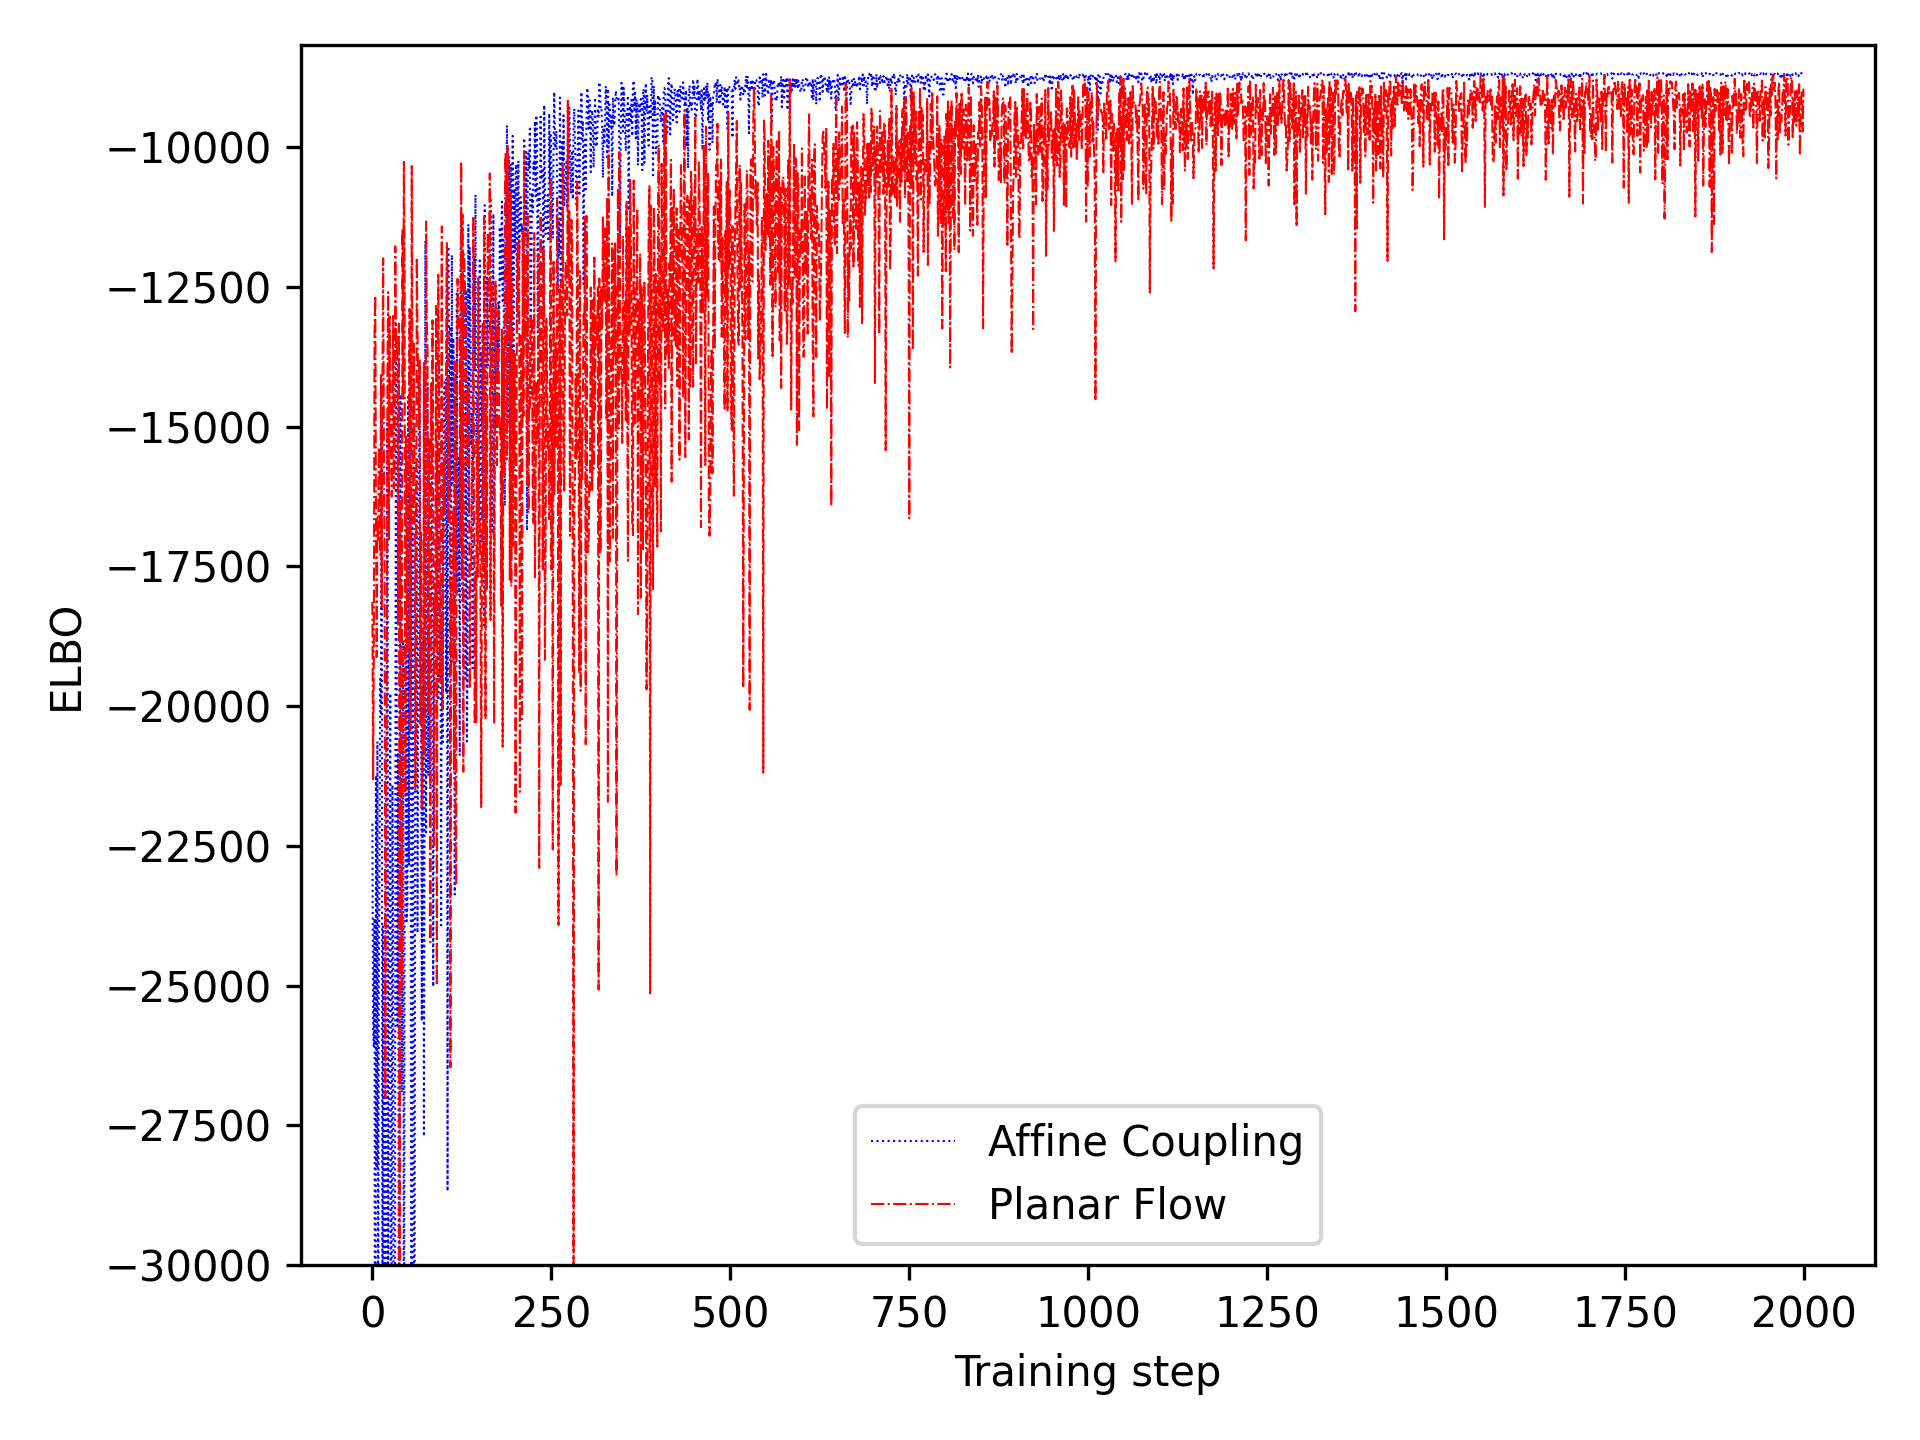
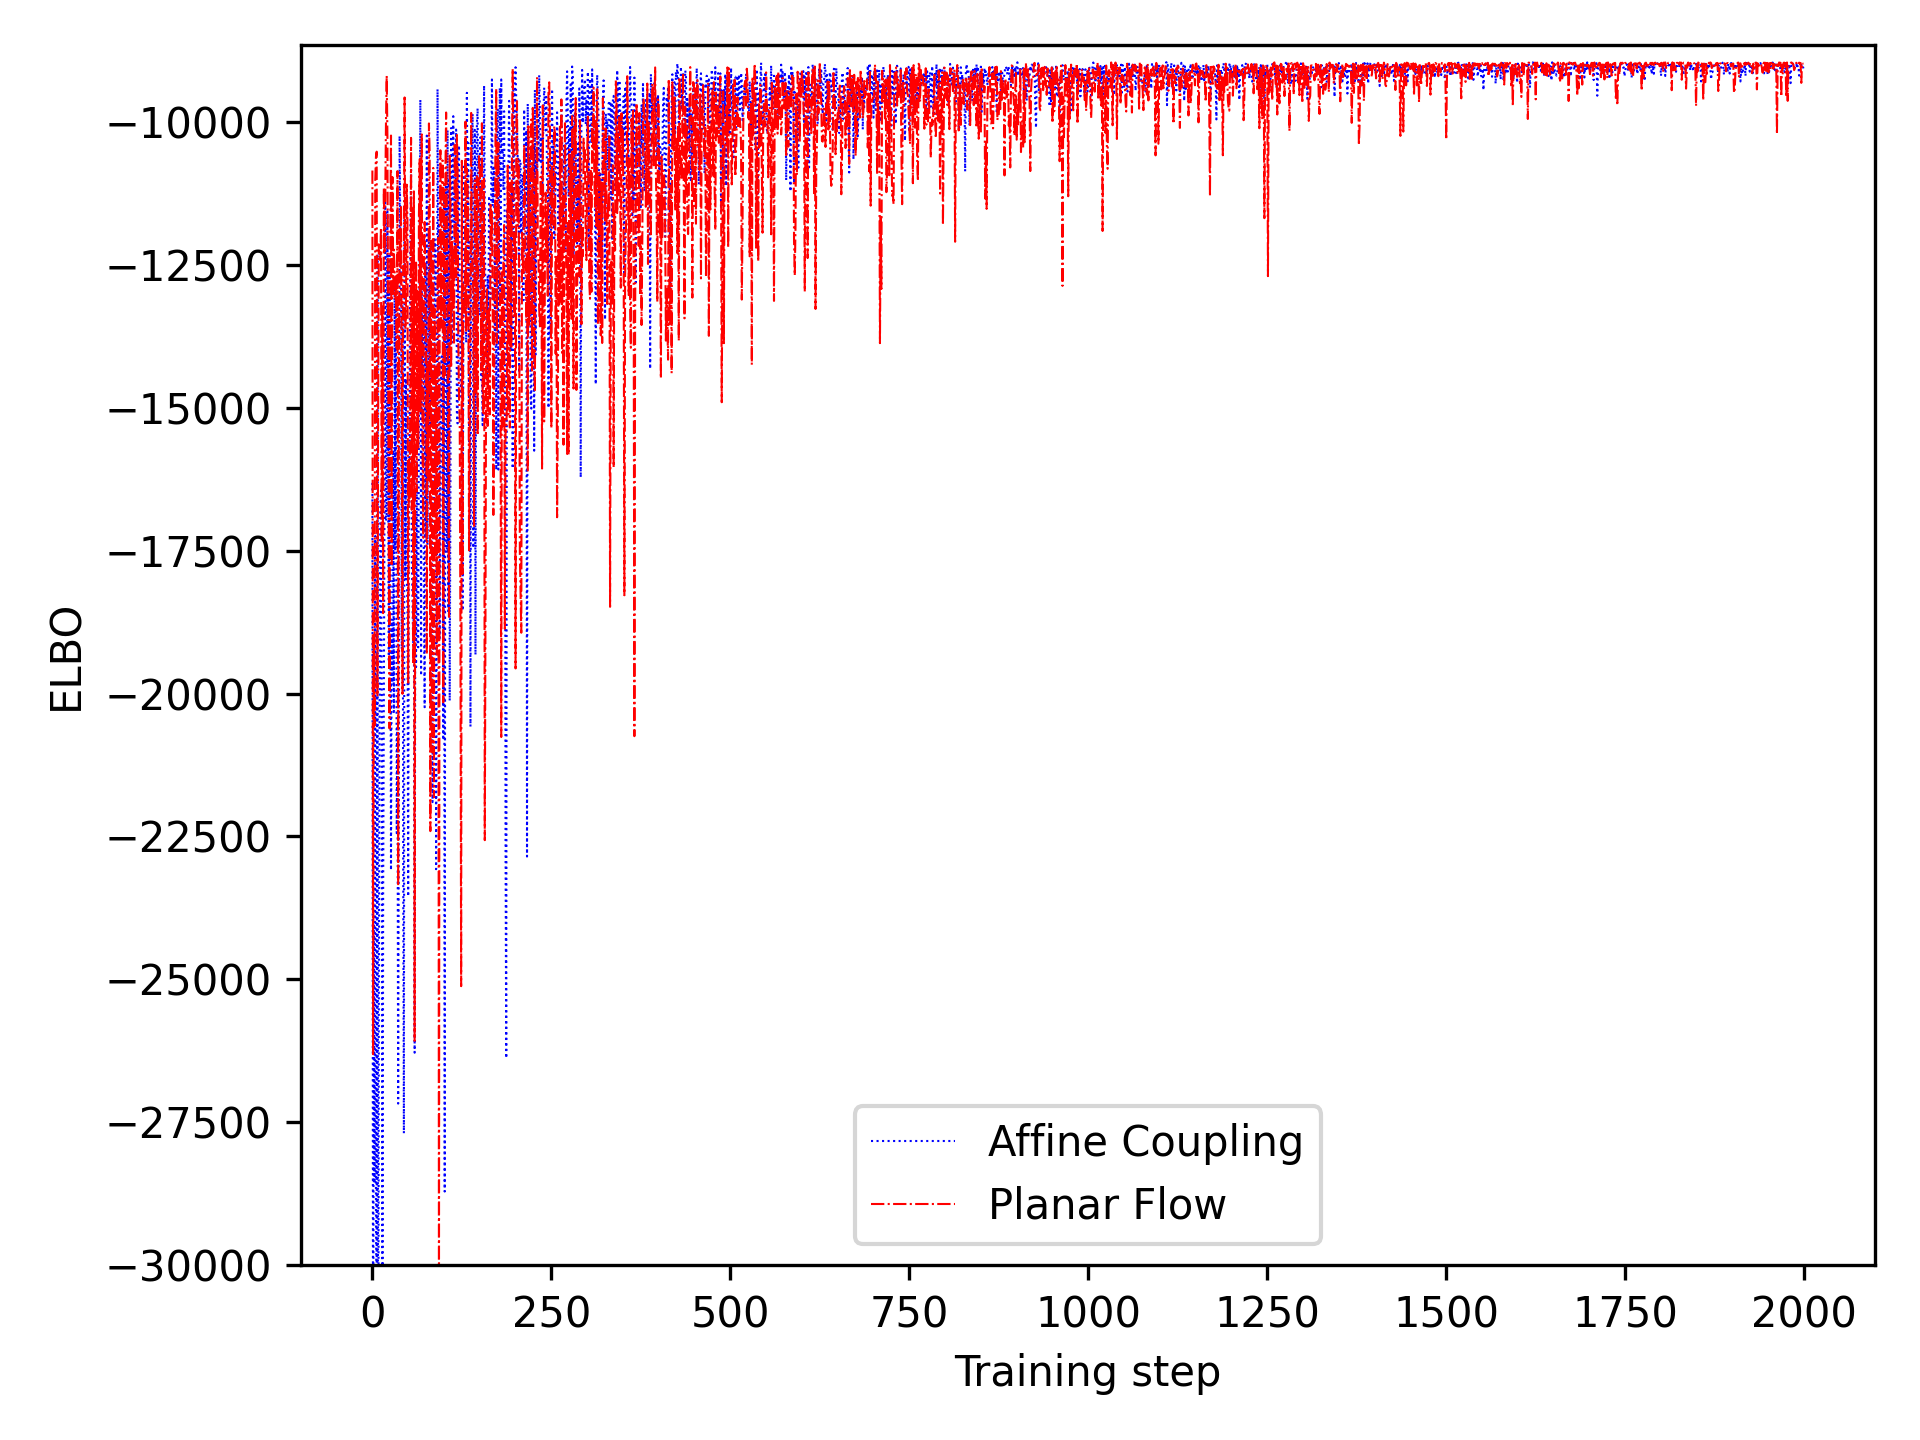
refactored utility construction

diff --git a/src/nf_transport/choice_models/run_model_comparison.py b/src/nf_transport/choice_models/run_model_comparison.py
@@ -23,12 +23,25 @@ from nf_transport.choice_models.utility import ChoiceUtility
 
 
 def likelihood(param_slices, data: MultinomialChoiceData):
+    feature_mapping = data.feature_mapping
     utilities = []
     availabilities = []
-    for dataset, (name, beta) in zip(data.alternatives, param_slices.items()):
-        V = ChoiceUtility(dataset.features, beta, dataset.has_asc)
+
+    asc_names = ["asc_train", None, "asc_car"]
+
+    for i, dataset in enumerate(data.alternatives):
+        V = ChoiceUtility(
+            features=dataset.features, 
+            feature_names=dataset.feature_names, 
+            param_slices=param_slices,
+            feature_mapping=feature_mapping,
+            asc_name=asc_names[i]
+        )
+
         utilities.append(V.value())
         availabilities.append(dataset.availability.all(dim=-1))
+
+
     logits = torch.stack(utilities, dim=-1)  # [Base_samples, N, J]
     avail = torch.stack(availabilities, dim=-1)  # [N, J]
     logits = logits.masked_fill(~avail, float("-inf"))
@@ -65,26 +78,38 @@ def swissmetro_likelihood(base_samples: int = 1):
         scale=True,
     )
 
-    beta_train = ChoiceParameter(dim=sm_train.features.size(1) + 1, name="beta_train")
-    beta_train.set_prior(
-        Normal(torch.zeros(beta_train.dim), torch.ones(beta_train.dim))
-    )
-    beta_car = ChoiceParameter(dim=sm_car.features.size(1) + 1, name="beta_car")
-    beta_car.set_prior(Normal(torch.zeros(beta_car.dim), torch.ones(beta_car.dim)))
-    beta_sm = ChoiceParameter(dim=sm_sm.features.size(1), name="beta_sm")
-    beta_sm.set_prior(Normal(torch.zeros(beta_sm.dim), torch.ones(beta_sm.dim)))
+    # define params
+    asc_train = ChoiceParameter(dim=1, name="asc_train")
+    asc_car = ChoiceParameter(dim=1, name="asc_car")
+    b_time = ChoiceParameter(dim=1, name="b_time")
+    b_cost = ChoiceParameter(dim=1, name="b_cost")
+
+    for b in [b_time, b_cost]:
+        b.set_prior(Normal(torch.tensor([-1.5]), torch.tensor([1.0])))
+
+    param_list = [asc_train, asc_car, b_time, b_cost]
+
+    # map params to predictors
+    feature_mapping = {
+        "TRAIN_TT": "b_time",
+        "CAR_TT": "b_time",
+        "SM_TT": "b_time",
+        "TRAIN_CO": "b_cost",
+        "SM_CO": "b_cost",
+        "CAR_CO": "b_cost",
+    }
 
     log_joint = ChoiceModelLogJoint(
         data=MultinomialChoiceData(
             alternatives=[sm_train, sm_sm, sm_car], 
-            choices=sm_train.choices
+            choices=sm_train.choices,
+            feature_mapping=feature_mapping
         ),
-        params=[beta_train, beta_sm, beta_car],
+        params=param_list,
         likelihood_fn=likelihood,
         base_samples=base_samples
     )
 
-    param_list = [beta_train, beta_sm, beta_car]
 
     return log_joint, param_list
 
@@ -153,7 +178,7 @@ def swissmetro():
         )
 
     plt.plot(np.arange(n_steps), elbos["realNVP"], "b:", np.arange(n_steps), elbos["planar"], "r-.", lw=0.5)
-    plt.ylim((-30000, max(elbos["realNVP"]) + 500))
+    plt.ylim((-30000, max(elbos["realNVP"]) + 300))
     plt.ylabel("ELBO")
     plt.xlabel("Training step")
     plt.legend(("Affine Coupling", "Planar Flow"), loc="lower center")

diff --git a/src/nf_transport/choice_models/utility.py b/src/nf_transport/choice_models/utility.py
@@ -1,21 +1,36 @@
 import torch
-from torch import Tensor, tensor
+from torch import Tensor
 
 
 class ChoiceUtility:
     v: Tensor
 
-    def __init__(self, predictors: Tensor, params: Tensor, has_asc: bool = True):
-        """
-        Predictors: design matrix augmented with 1s for the ASC
-        Params: vector of ChoiceParameters, including the ASC
-        """
-        if has_asc:
-            predictors = torch.cat(
-                (torch.ones(predictors.size(0), 1), predictors), dim=1
-            )
+    def __init__(
+            self, 
+            features: Tensor, 
+            feature_names: list[str],
+            param_slices: dict[str, Tensor], 
+            feature_mapping: dict[str, str],
+            asc_name: str
+    ):
 
-        self.v = torch.matmul(params, predictors.T)
+        batch_size = next(iter(param_slices.values())).size(0)
+        v = torch.zeros(batch_size, features.size(0))
+
+        
+        # add ASC
+        if asc_name and asc_name in param_slices:
+            v += param_slices[asc_name]
+        
+        # add predictors
+        for i, feat in enumerate(feature_names):
+            if feat in feature_mapping:
+                param_name = feature_mapping[feat]
+                beta = param_slices[param_name]
+                x = features[:, i].unsqueeze(0)
+                v += beta * x
+
+        self.v = v
 
     def value(self):
         return self.v

diff --git a/src/nf_transport/choice_models/posterior_viz.py b/src/nf_transport/choice_models/posterior_viz.py
@@ -1,8 +1,7 @@
 import arviz as az
 import arviz_plots as azp
 import numpy as np
-
-# from arviz_plots import azp
+import matplotlib.pyplot as plt
 
 
 def plot_params():
@@ -11,5 +10,23 @@ def plot_params():
     forest = azp.plot_forest(idata)
     forest.savefig("figures/sm_forest.png")
 
+def compare_params():
+    post_planar = np.load("estimates/sm_posterior_planar.npz")
+    post_realNVP = np.load("estimates/sm_posterior_realNVP.npz")
 
-plot_params()
+    idata_planar = az.from_dict(posterior=dict(post_planar))
+    idata_realNVP = az.from_dict(posterior=dict(post_realNVP))
+
+    forest = azp.plot_forest(
+
+        {"Planar": idata_planar, "realNVP": idata_realNVP},
+    )
+
+    forest = azp.add_lines(
+        forest,
+        values=0
+    )
+    plt.legend(["Planar", "realNVP"])
+    plt.savefig("figures/sm_forest_comp.png", dpi=300)
+
+compare_params()

diff --git a/src/nf_transport/choice_models/database_process.py b/src/nf_transport/choice_models/database_process.py
@@ -23,7 +23,7 @@ class ChoiceDataset(Dataset):
         filepath: str,
         has_asc: bool = True,
         scale: bool = False,
-    ) -> None:
+    ):
         super().__init__()
         if ".dat" in filepath:
             sepstring = "\t"
@@ -33,13 +33,15 @@ class ChoiceDataset(Dataset):
         df = pd.read_csv(filepath, sep=sepstring)
         df = df[df[choice_col] > 0]
 
-        # scale features
+        
 
         self.features = torch.tensor(df[feature_cols].values, dtype=torch.float32)
         self.choices = torch.tensor(df[choice_col].values, dtype=torch.long) - 1
         self.availability = torch.tensor(df[avail_cols].values, dtype=torch.float32)
         self.has_asc = has_asc
-
+        self.feature_names = feature_cols
+        
+        # scale features
         self.feature_mean = self.features.mean(dim=0)
         self.feature_std = self.features.std(dim=0).clamp(min=1e-8)
         if scale:
@@ -56,3 +58,4 @@ class ChoiceDataset(Dataset):
 class MultinomialChoiceData:
     alternatives: list[ChoiceDataset]
     choices: Tensor
+    feature_mapping: dict

diff --git a/src/nf_transport/choice_models/logpd.py b/src/nf_transport/choice_models/logpd.py
@@ -17,7 +17,7 @@ class LogJointDensity:
 
 
 class ChoiceModelLogJoint:
-    def __init__(self, data, params: list[ChoiceParameter], likelihood_fn, base_samples: int = 1) -> None:
+    def __init__(self, data, params: list[ChoiceParameter], likelihood_fn, base_samples: int = 1):
         self.data = data
         self.parameters = params
         self.likelihood_fn = likelihood_fn

diff --git a/src/nf_transport/choice_models/parameter.py b/src/nf_transport/choice_models/parameter.py
@@ -13,4 +13,4 @@ class ChoiceParameter:
         self.prior = dist
 
     def log_prior(self, x: Tensor) -> Tensor:
-        return self.prior.log_prob(x).sum()
+        return self.prior.log_prob(x).sum(dim=-1)